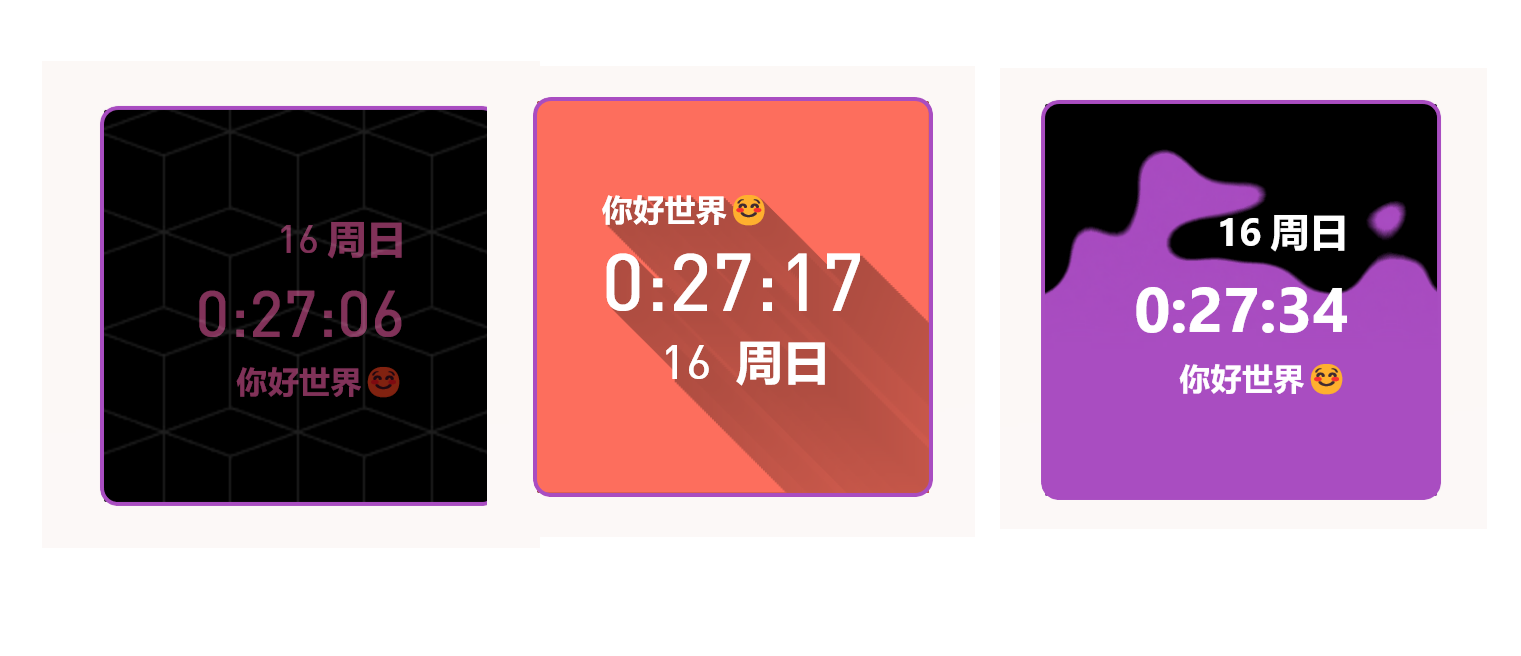
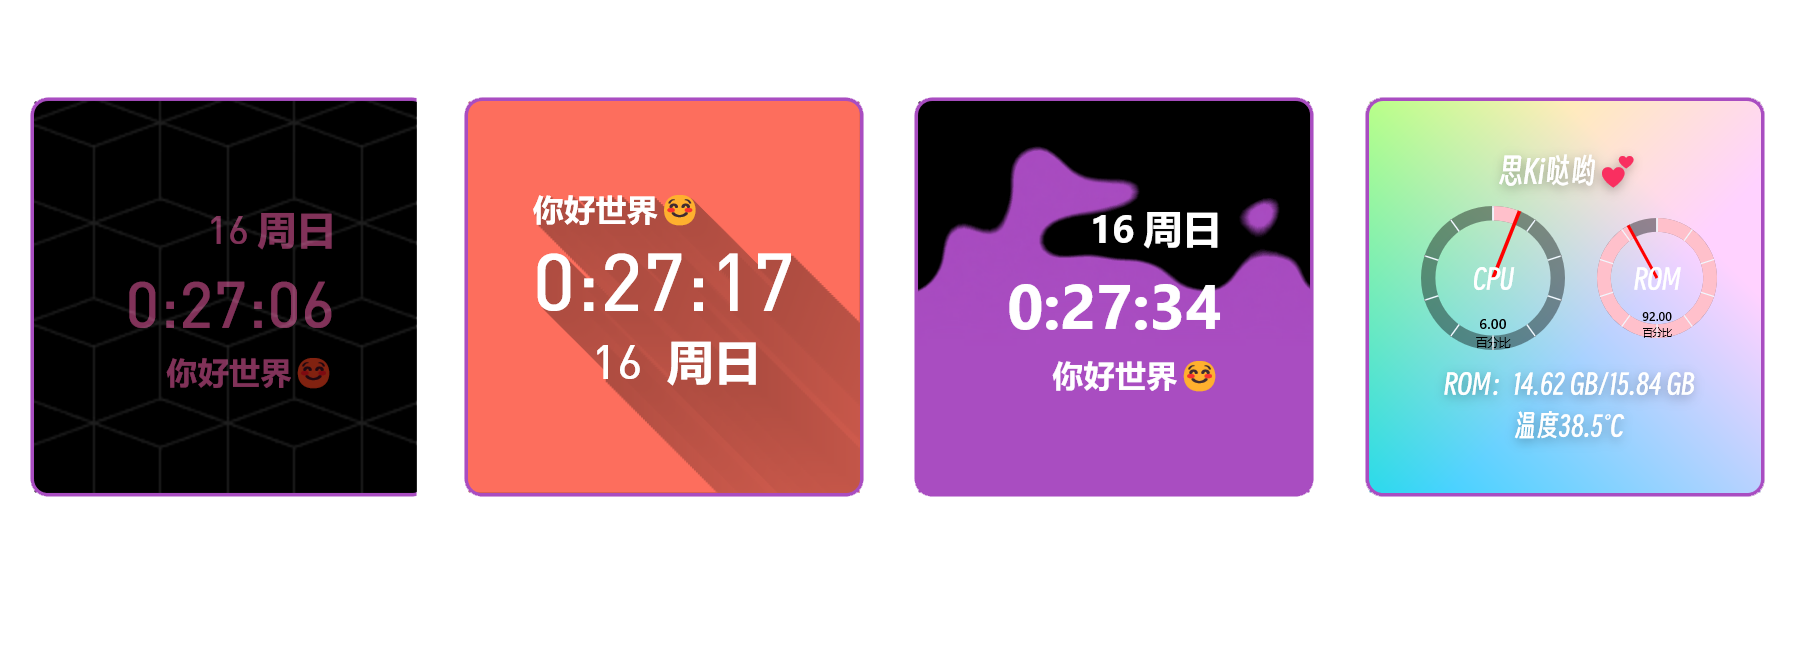
更新readme

diff --git a/README.md b/README.md
@@ -1,16 +1,29 @@
 # 电子脑壳
 
-电子脑壳是一个为开源桌面机器人ElectronBot提供一些软件功能的桌面程序项目。它是由绿荫阿广开发的，使用了微软的WASDK框架和C#语言。
+电子脑壳是一个为稚晖君开源的桌面机器人[ElectronBot](https://github.com/peng-zhihui/ElectronBot)提供一些软件功能的桌面程序项目。它是由绿荫阿广开发的，使用了微软的WASDK框架和C#语言。
 
-![电子脑壳截图](https://example.com/screenshot.png)
+![电子脑壳截图](/Images/home.png)
 
 ## 功能
 
 - 多彩表盘：可以显示时间和自定义文字，也有表盘可以专门显示当前电脑资源占用情况。
+
+![Clock](/Images/clock.png)
 - 手势识别语音交互：手势识别结合语音识别进行语音对话交流，可以通过图灵机器人API或ChatGPT对话API进行天气状况询问、简单的笑话回复或智能聊天。（注：需要自己解决网络问题）
+
+[![B站视频演示链接](/Images/chatgpt-talk.JPG)](https://www.bilibili.com/video/BV1FX4y1S7hA/?share_source=copy_web&vd_source=dbfa7a452a337f924e60d4da2715b6eb)
+
+
 - 量子纠缠：此功能可以识别出用户的表情，也可以将用户的面部数据同步到机器人的面部进行播放。
+
+![量子纠缠页](/Images/EmojiPage.png)
+
 - 表情列表：用户可以自定义自己喜欢的表情数据，然后指定对应的动作文件，可以结合表情和动作进行播放。也可以将制作好的表情进行导出、分享给别人或导入别人分享的表情。
+![emojis](/Images/emojis.png)
+
 - 手柄控制：用户连接xbox手柄之后，可以在手柄控制器页面进行电子的控制，可以同时操作底部旋转、手臂旋转、手臂单个展开和头部总共五个舵机。
+![xbox](/Images/xbox-controller.png)
+
 
 ## 安装
 
@@ -47,71 +60,18 @@
 
 本项目采用MIT许可证发布，请参见[LICENSE](https://example.com/LICENSE)文件。
 
+[树莓派连接ElectronBot项目介绍](https://github.com/maker-community/ElectronBot.DotNet/tree/master/src/Verdure.ElectronBot.GrpcService)
+
+![封面](/Images/videoCar.jpg)
+
 ## 联系方式
 
 如果你有任何问题、建议或反馈，请联系我：
 
-- 邮箱：greenshade@outlook.com
+- 邮箱：gil.zhang.dev@outlook.com
 
 
-## 新添加的功能
 
-### 1. 新的表盘，主要包含资源占用和温度情况，温度显示需要管理员运行电子脑壳。
-
-![cpu](/Images/cpu.png)
-
-## 2. 手势识别页，主要包含一些手势的结果的识别，对于的功能还在构思。
-
-![hand](/Images/hand.png)
-
-## [树莓派Zero 2 W（ubuntu-22.04）通过.NET6和libusb操作USB读写](https://www.cnblogs.com/GreenShade/p/16795988.html)
-
-## [树莓派Zero 2 W 通过GPIO，USB和接收手柄数据操作的小车成品演示视频地址](https://www.bilibili.com/video/BV1j8411Y7Di/?share_source=copy_web&vd_source=dbfa7a452a337f924e60d4da2715b6eb)
-
-![封面](/Images/videoCar.jpg)
-
-
-## ElectronBot.DotNet
- 
- 此项目为[雉晖君的ElectronBot](https://github.com/peng-zhihui/ElectronBot)提供了.Net版本上位机传输数据的SDK。
-
-
-## ElectronBot.BraincasePreview
-## 电子脑壳项目为WinUI项目 最好使用VS2022最新版本 并安装Windows App SDK 插件运行
-
- 电子脑壳全部代码已经开源，有兴趣的可以拿来进行学习。
-
-![首页](/Images/HomePage.png)
-
-表情编辑页包含表情视频的上传，表情的播放。
-
-![表情编辑页](/Images/EmojisEdit.png)
-
-![量子纠缠页](/Images/EmojiPage.png)
-
-目前的一些表盘如下图：
-
-![Clock](/Images/clock.png)
-
-## [Verdure.ElectronBot.GrpcService项目介绍](https://github.com/maker-community/ElectronBot.DotNet/tree/master/src/Verdure.ElectronBot.GrpcService)
-    此项目是一个用.net6编写的web服务，主要承载了grpc服务，此服务部署到树莓派上，通过和libusb互操作，将电子脑壳传输的表情数据进行接收写入到电子本体里进行显示。
-
-![EbGrpc](/Images/EbGrpc.png)
-
-测试效果如下
-
-![electronbot](/Images/electron-raspberrypi.jpg)
-
-## 相关信息
-+ 树莓派Zero 2 W 一个 并安装ubuntu 2022
-+ .net 6 sdk和运行时安装
-+ libusb 软连接的创建
-
-
-### ***[电子脑壳详细介绍](https://github.com/maker-community/ElectronBot.Braincase)***
-
-# [下载 Windows App SDK](https://docs.microsoft.com/zh-cn/windows/apps/windows-app-sdk/downloads)
-
-## 本人根据这个sdk开发了一个上位机，效果如下图，主打表盘显示功能，交流群（924558003）如下，有完整电子的可以windows商店搜索 电子脑壳，或者进群交流。
+电子脑壳 交流群（924558003），有完整电子的可以windows商店搜索 电子脑壳，或者进群交流。
 
 ![交流群](/Images/QQ.jpg)

diff --git a/src/Verdure.ElectronBot.GrpcService/README.md b/src/Verdure.ElectronBot.GrpcService/README.md
@@ -1,4 +1,12 @@
-## 项目介绍
+
+## [树莓派Zero 2 W（ubuntu-22.04）通过.NET6和libusb操作USB读写](https://www.cnblogs.com/GreenShade/p/16795988.html)
+
+## [树莓派Zero 2 W 通过GPIO，USB和接收手柄数据操作的小车成品演示视频地址](https://www.bilibili.com/video/BV1j8411Y7Di/?share_source=copy_web&vd_source=dbfa7a452a337f924e60d4da2715b6eb)
+
+![封面](/Images/videoCar.jpg)
+
+
+## [Verdure.ElectronBot.GrpcService项目介绍](https://github.com/maker-community/ElectronBot.DotNet/tree/master/src/Verdure.ElectronBot.GrpcService)
     此项目是一个用.net6编写的web服务，主要承载了grpc服务，此服务部署到树莓派上，通过和libusb互操作，将电子脑壳传输的表情数据进行接收写入到电子本体里进行显示。
 
 ![EbGrpc](/Images/EbGrpc.png)
